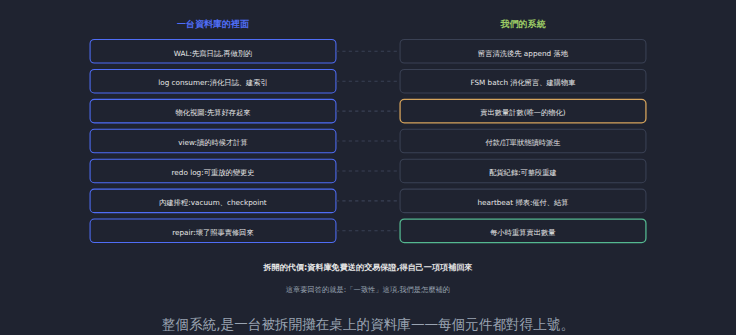
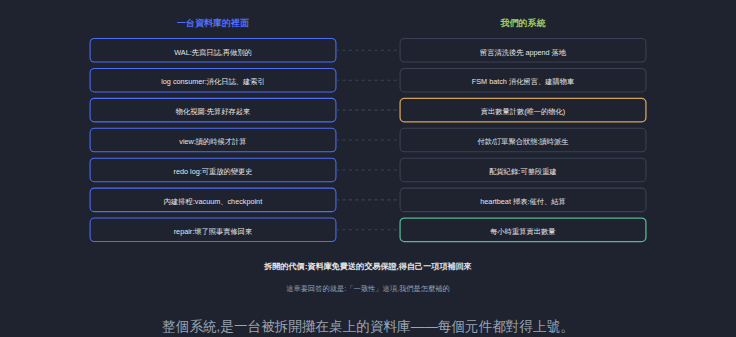
修正 #16 對帳章:庫存帳欄位數、訂單狀態描述、結束檔期互文
review #16 rezero-reconciliation 的三個修正:

1. 「庫存帳:庫存上限+賣出數量,一張獨立表、兩個欄位」——#5 的
   定稿是三個數字(上限、購物車數量、訂單數量)。改為「上限+兩個
   消耗計數,一張獨立表、三個數字」。
2. 「訂單狀態不是一個欄位,是讀取時從事實派生」與 #6「五個各自
   獨立的欄位跟著事實更新」矛盾。改為「沒有一顆聚合的 status
   欄位——各維度直接跟著事實走,聚合的判讀在讀取時發生」,同時
   保住無冗餘論證;對照圖第四列與 aria 同步改「聚合狀態:讀時
   派生」,day23-1.png 重產。
3. 「結束檔期」wikilink 指到 #6——結束檔期 API 在 #5 庫存章,
   改指 rezero-inventory。

其餘核過:七列對照、系統外對帳流程與不對稱修帳、重來三則、反思
三則皆與 roadmap 一致;ddia-future/airflow-reliability 連結存在。

Claude-Session: https://claude.ai/code/session_01CvSnMJ1vCjbkh11Qu9m2ih

diff --git a/src/content/blog/rezero-reconciliation.md b/src/content/blog/rezero-reconciliation.md
@@ -21,7 +21,7 @@ draft: false
 先講一個寫到系列中段才浮現的體悟。有一天我盯著這個系統的全貌,突然發現它很眼熟:**我們做的每一件事,都是一台資料庫內部構造的放大版。**
 
 <figure style="margin:1.5rem 0;text-align:center;">
-  <svg viewBox="0 0 580 288" role="img" aria-label="一台拆開的資料庫:左欄是資料庫內部構造,右欄是我們系統的對應物,逐列對照。先寫日誌對應留言清洗後先落地;log consumer 建索引對應 FSM batch 建購物車;物化視圖對應賣出數量計數;讀時計算的 view 對應付款與訂單狀態讀時派生;redo log 對應可重放的配貨紀錄;內建排程對應 heartbeat 掃表;repair 對應每小時重算賣出數量。底部結論:拆開的代價,是資料庫免費送的交易保證得自己一項項補回來。" style="width:100%;max-width:620px;height:auto;margin:0 auto;">
+  <svg viewBox="0 0 580 288" role="img" aria-label="一台拆開的資料庫:左欄是資料庫內部構造,右欄是我們系統的對應物,逐列對照。先寫日誌對應留言清洗後先落地;log consumer 建索引對應 FSM batch 建購物車;物化視圖對應賣出數量計數;讀時計算的 view 對應付款與訂單的聚合狀態讀時派生;redo log 對應可重放的配貨紀錄;內建排程對應 heartbeat 掃表;repair 對應每小時重算賣出數量。底部結論:拆開的代價,是資料庫免費送的交易保證得自己一項項補回來。" style="width:100%;max-width:620px;height:auto;margin:0 auto;">
     <text x="145" y="24" fill="#4f6df5" font-size="8.4" text-anchor="middle" font-weight="bold">一台資料庫的裡面</text>
     <text x="435" y="24" fill="#9ccc65" font-size="8.4" text-anchor="middle" font-weight="bold">我們的系統</text>
     <rect x="30" y="36" width="230" height="22" rx="4" fill="#1f2330" stroke="#4f6df5" stroke-width="1"/>
@@ -42,7 +42,7 @@ draft: false
     <rect x="30" y="120" width="230" height="22" rx="4" fill="#1f2330" stroke="#4f6df5" stroke-width="1"/>
     <text x="145" y="135" fill="#e6e6e6" font-size="6.8" text-anchor="middle">view:讀的時候才計算</text>
     <rect x="320" y="120" width="230" height="22" rx="4" fill="#1f2330" stroke="#3a4154" stroke-width="1"/>
-    <text x="435" y="135" fill="#e6e6e6" font-size="6.8" text-anchor="middle">付款/訂單狀態讀時派生</text>
+    <text x="435" y="135" fill="#e6e6e6" font-size="6.8" text-anchor="middle">付款/訂單聚合狀態:讀時派生</text>
     <line x1="260" y1="131" x2="320" y2="131" stroke="#3a4154" stroke-width="1" stroke-dasharray="3 3"/>
     <rect x="30" y="148" width="230" height="22" rx="4" fill="#1f2330" stroke="#4f6df5" stroke-width="1"/>
     <text x="145" y="163" fill="#e6e6e6" font-size="6.8" text-anchor="middle">redo log:可重放的變更史</text>
@@ -73,13 +73,13 @@ draft: false
 
 先把三本帳和它們的 source of truth 攤開:
 
-- **庫存帳**:庫存上限+賣出數量,[[rezero-inventory|一張獨立表、兩個欄位]]。
+- **庫存帳**:庫存上限+兩個消耗計數(購物車/訂單),[[rezero-inventory|一張獨立表、三個數字]]。
 - **訂單帳**:order 與 order item,金額在成交當下[[rezero-cart-order|定格成會計事實]]。
 - **金流帳**:orders payment,配上 [[rezero-payment|per-provider 的付款事實表]]。
 
 帳會錯,必要條件是**同一個事實存在兩份、而且各自更新**——冗餘才會漂移。用這把尺量三本帳,結果很有趣:
 
-**訂單帳和金流帳,幾乎沒有冗餘。**訂單「狀態」不是一個欄位,是讀取時從事實派生的;付款進度不是一個布林,是把 per-provider 事實表加總出來的。[[rezero-promotion|優惠金額]]用 floor-and-subtract,總和恆等是算法保證,不是事後核對出來的。**沒有第二本會漂的帳,就沒有帳要對**——這不是我們對帳做得好,是這兩本帳從結構上取消了對帳的必要。
+**訂單帳和金流帳,幾乎沒有冗餘。**訂單「狀態」沒有一顆聚合的 status 欄位——各維度直接跟著事實走,聚合的判讀在讀取時發生;付款進度不是一個布林,是把 per-provider 事實表加總出來的。[[rezero-promotion|優惠金額]]用 floor-and-subtract,總和恆等是算法保證,不是事後核對出來的。**沒有第二本會漂的帳,就沒有帳要對**——這不是我們對帳做得好,是這兩本帳從結構上取消了對帳的必要。
 
 **庫存帳,有一個冗餘。**賣出數量是全系統唯一刻意物化的數字——為了直播當下的速度,不物化不行。它也真的漂過:[[rezero-inventory|migrate 那次超賣]],就是這個數字被需求變更打歪。而它配的防線,就是每小時重算:照著購物車和訂單的事實,把計數整個算回來。**一個冗餘,配一個修復迴圈,收支平衡。**
 
@@ -127,7 +127,7 @@ draft: false
 
 這個不對稱很值得看一眼。少收是公司的損失,對客人沒有影響,所以安靜地在內部處理;多收動了客人的錢,所以走最貴的渠道(客服電話)、給最有誠意的補償。**修帳的方向決定誰買單、用什麼貨幣付**——這又是一次[[rezero-fulfillment|機制歸系統、政策歸人]]:系統提供事實,人決定正義。
 
-而這一整套的實際戰績是:**上線後,幾乎沒印象處理過錯帳。**連[[rezero-cart-order|結束檔期]]那個一次動幾千筆資料的大結算,都只做黑名單、清購物車、清未付款訂單——不核帳,照樣跑得意外地順。當年我們把這歸功於乖乖遵守 3NF;現在我可以講得更準:**3NF 就是「同一個事實只存一份」的紀律,它在源頭掐死了漂移。**
+而這一整套的實際戰績是:**上線後,幾乎沒印象處理過錯帳。**連[[rezero-inventory|結束檔期]]那個一次動幾千筆資料的大結算,都只做黑名單、清購物車、清未付款訂單——不核帳,照樣跑得意外地順。當年我們把這歸功於乖乖遵守 3NF;現在我可以講得更準:**3NF 就是「同一個事實只存一份」的紀律,它在源頭掐死了漂移。**
 
 ## 重來:把「幾乎沒事」變成「可證明沒事」
 

diff --git a/docs/ironman/day23.md b/docs/ironman/day23.md
@@ -16,13 +16,13 @@
 
 先把三本帳和它們的 source of truth 攤開:
 
-- **庫存帳**:庫存上限+賣出數量,一張獨立表、兩個欄位。
+- **庫存帳**:庫存上限+兩個消耗計數(購物車/訂單),一張獨立表、三個數字。
 - **訂單帳**:order 與 order item,金額在成交當下定格成會計事實。
 - **金流帳**:orders payment,配上 per-provider 的付款事實表。
 
 帳會錯,必要條件是**同一個事實存在兩份、而且各自更新**——冗餘才會漂移。用這把尺量三本帳,結果很有趣:
 
-**訂單帳和金流帳,幾乎沒有冗餘。**訂單「狀態」不是一個欄位,是讀取時從事實派生的;付款進度不是一個布林,是把 per-provider 事實表加總出來的。優惠金額用 floor-and-subtract,總和恆等是算法保證,不是事後核對出來的。**沒有第二本會漂的帳,就沒有帳要對**——這不是我們對帳做得好,是這兩本帳從結構上取消了對帳的必要。
+**訂單帳和金流帳,幾乎沒有冗餘。**訂單「狀態」沒有一顆聚合的 status 欄位——各維度直接跟著事實走,聚合的判讀在讀取時發生;付款進度不是一個布林,是把 per-provider 事實表加總出來的。優惠金額用 floor-and-subtract,總和恆等是算法保證,不是事後核對出來的。**沒有第二本會漂的帳,就沒有帳要對**——這不是我們對帳做得好,是這兩本帳從結構上取消了對帳的必要。
 
 **庫存帳,有一個冗餘。**賣出數量是全系統唯一刻意物化的數字——為了直播當下的速度,不物化不行。它也真的漂過:migrate 那次超賣,就是這個數字被需求變更打歪。而它配的防線,就是每小時重算:照著購物車和訂單的事實,把計數整個算回來。**一個冗餘,配一個修復迴圈,收支平衡。**
 
